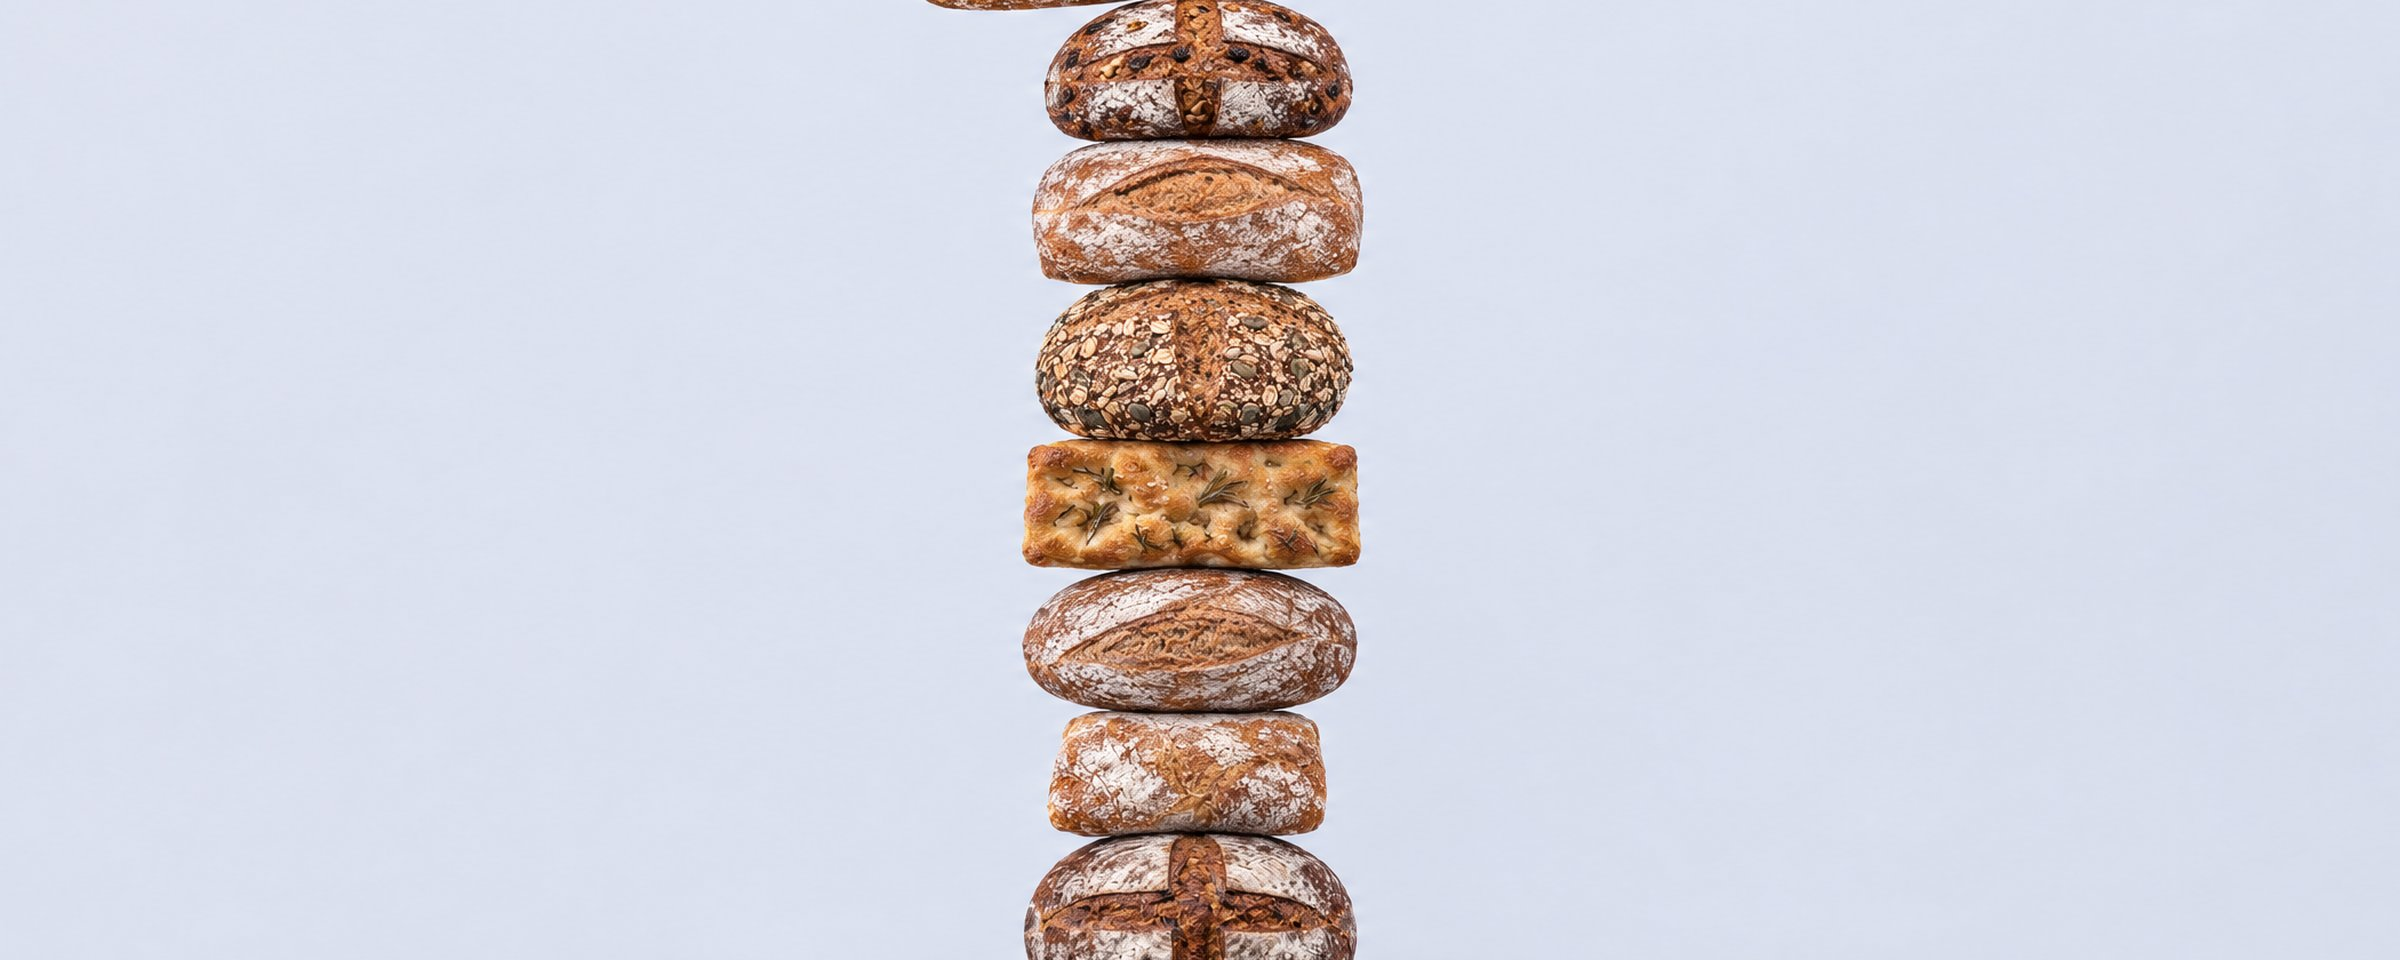
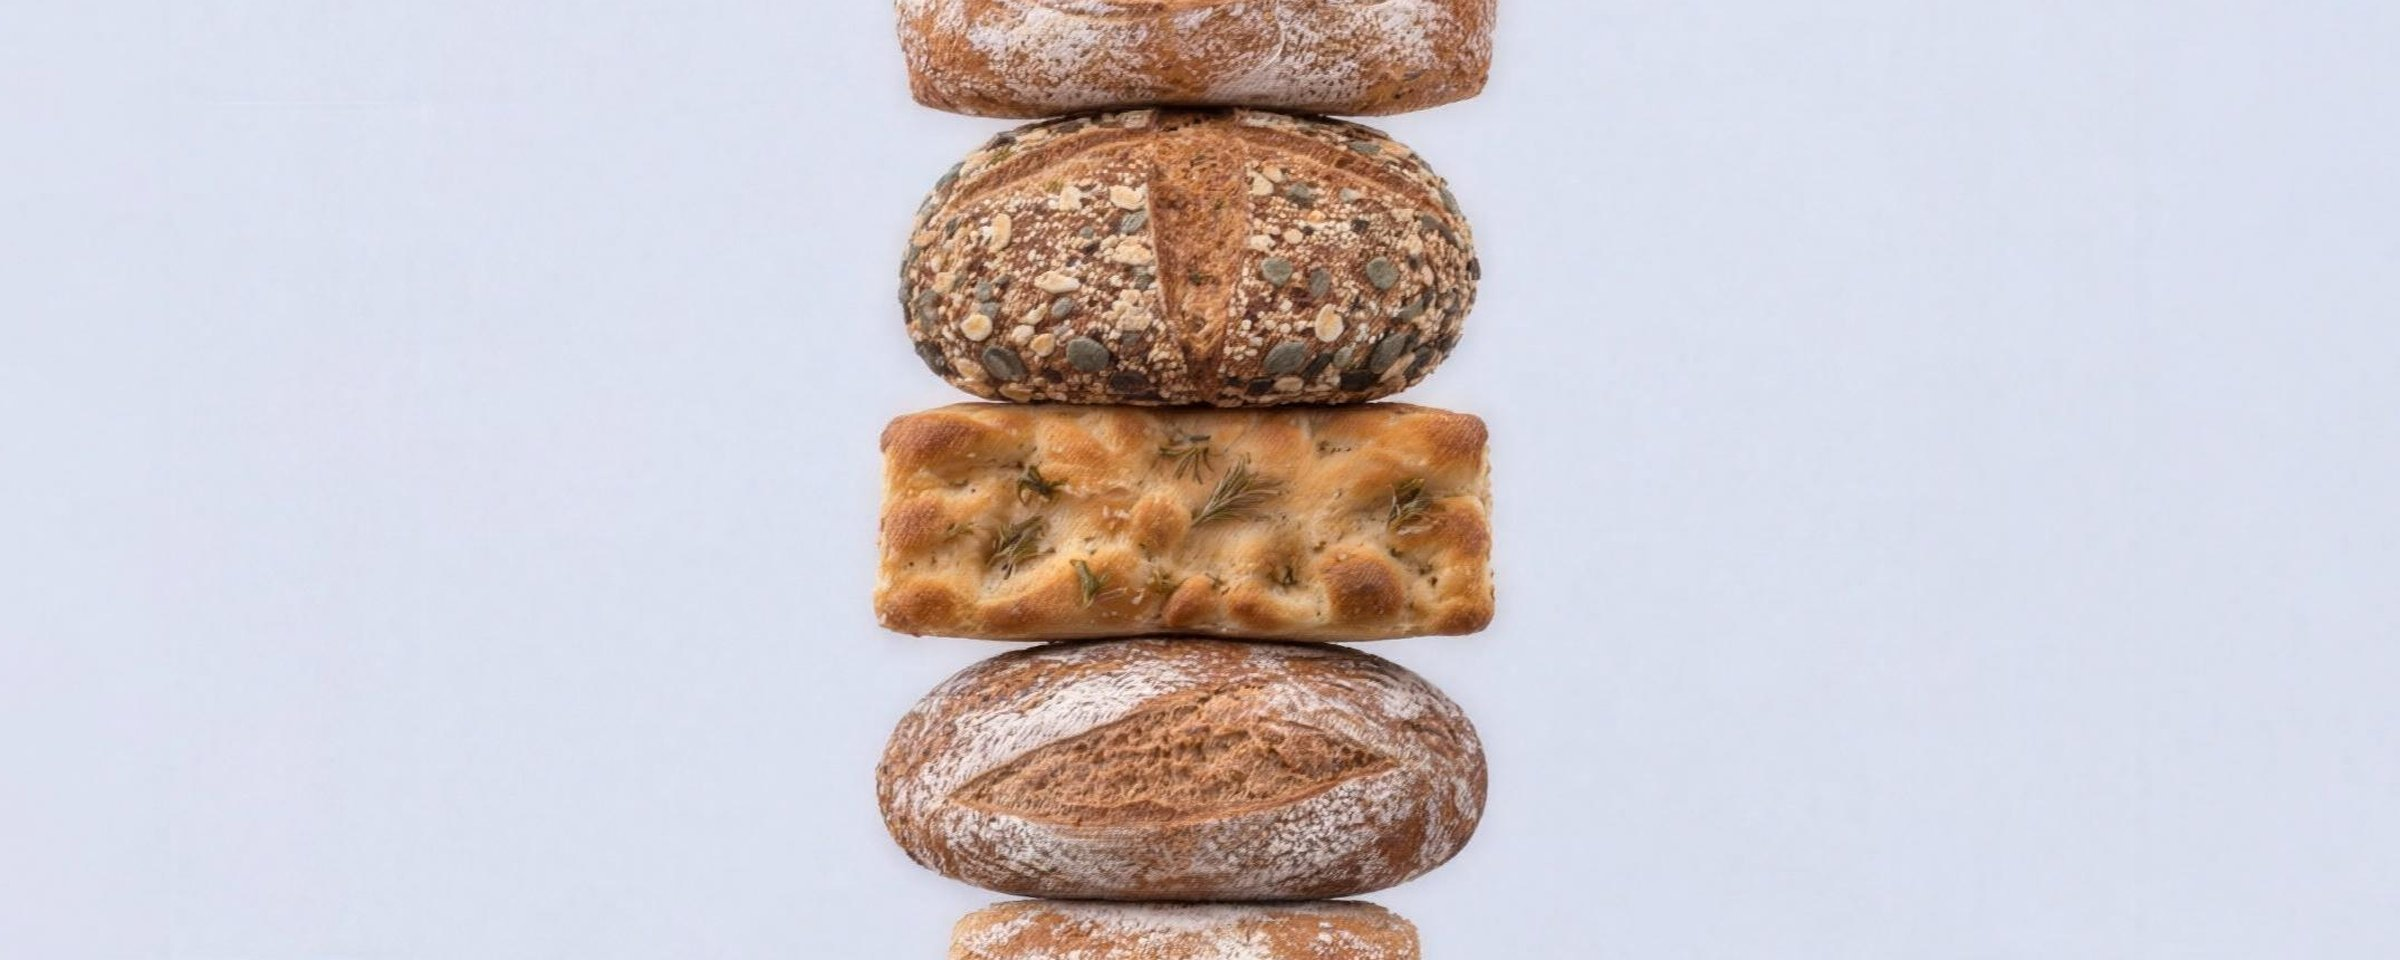
Portada con mucho más zoom sobre la torre y título y botón desde tablet

Changed region(s): [[0.3438, 0.0, 0.625, 1.0]]

diff --git a/index.html b/index.html
@@ -82,13 +82,13 @@
         <section class="relative" aria-labelledby="portada-titulo">
             <a href="coleccion.html" aria-label="Ver el pan" class="relative block aspect-portada md:aspect-hero bg-superficie dark:bg-superficie-noche overflow-hidden focus-visible:outline-2 focus-visible:-outline-offset-2 focus-visible:outline-acento">
                 <picture>
-                    <source media="(width >= 48rem)" srcset="img/portada/portada-escritorio.jpg?v=3" width="2400" height="960">
-                    <img src="img/portada/portada-movil.jpg?v=3" alt="Torre de los ocho panes de Obrador apilados, de la hogaza de centeno a la barra" width="1200" height="1500" class="portada-zoom absolute inset-0 size-full object-cover">
+                    <source media="(width >= 48rem)" srcset="img/portada/portada-escritorio.jpg?v=4" width="2400" height="960">
+                    <img src="img/portada/portada-movil.jpg?v=4" alt="Torre de los ocho panes de Obrador apilados, de la hogaza de centeno a la barra" width="1200" height="1500" class="portada-zoom absolute inset-0 size-full object-cover">
                 </picture>
             </a>
-            <div class="xl:absolute xl:inset-x-0 xl:bottom-0 xl:p-8 xl:flex xl:items-end xl:justify-between xl:gap-4 text-texto xl:pointer-events-none">
-                <h1 id="portada-titulo" class="sr-only xl:not-sr-only font-titulo xl:text-display tracking-titulo max-w-[18ch]">Pan de masa madre, tres hornadas al día.</h1>
-                <a href="coleccion.html" class="hidden xl:block pointer-events-auto border border-texto px-4 py-2 uppercase tracking-wider hover:bg-texto hover:text-fondo focus-visible:outline-2 focus-visible:outline-offset-2 focus-visible:outline-acento">Ver el pan</a>
+            <div class="md:absolute md:inset-x-0 md:bottom-0 md:p-6 lg:p-8 md:flex md:items-end md:justify-between md:gap-4 text-texto md:pointer-events-none">
+                <h1 id="portada-titulo" class="sr-only md:not-sr-only font-titulo md:text-titulo xl:text-display tracking-titulo max-w-[11ch]">Pan de masa madre, tres hornadas al día.</h1>
+                <a href="coleccion.html" class="hidden md:block pointer-events-auto border border-texto px-4 py-2 uppercase tracking-wider hover:bg-texto hover:text-fondo focus-visible:outline-2 focus-visible:outline-offset-2 focus-visible:outline-acento">Ver el pan</a>
             </div>
         </section>
 
